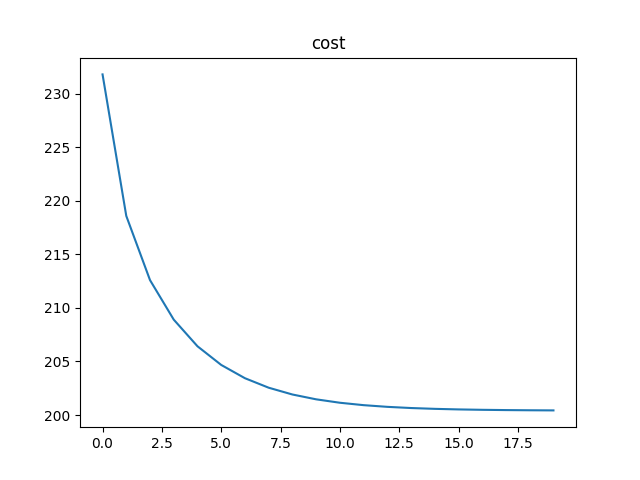
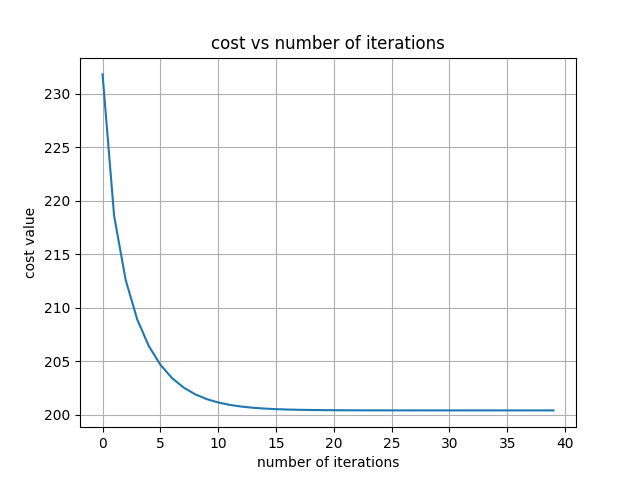
Better images

diff --git a/main.py b/main.py
@@ -29,7 +29,7 @@ if __name__ == '__main__':
     # parser.add_argument("--interactive", action="store_true")
     parser.add_argument("--q", default=1.6, type=float, help="fuzziness factor")
     parser.add_argument("--save", action="store_true", help="files will be saved in results folder with name {file_name}_{method}.png")
-    parser.add_arguments("--iter", default = 20, type = int, help="Number of iterations")
+    parser.add_argument("--iter", default = 20, type = int, help="Number of iterations")
 
     args = parser.parse_args()
     segments = args.k
@@ -86,7 +86,10 @@ if __name__ == '__main__':
     plt.show()
 
     plt.plot(cost)
-    plt.title("cost")
+    plt.title("cost vs number of iterations")
+    plt.xlabel("number of iterations")
+    plt.ylabel("cost value")
+    plt.grid()
     if save:
         plt.savefig(f"./results/{os.path.splitext(os.path.basename(image_file))[0]}_{method}_cost.png")
     plt.show()

diff --git a/fcm.py b/fcm.py
@@ -30,6 +30,8 @@ def update_memberships(pixels, centers, segments, q):
     for i in range(segments):
         distance[:, i] = (pixels**2  - 2 * centers[i] * pixels + centers[i] ** 2).flatten()
 
+    distance[distance <= 0] = 1e-10
+
     power = 1 / (q - 1)
     reverse_d = ( 1 / distance ) ** (power) 
     sumD = np.sum(reverse_d, axis = 1)
